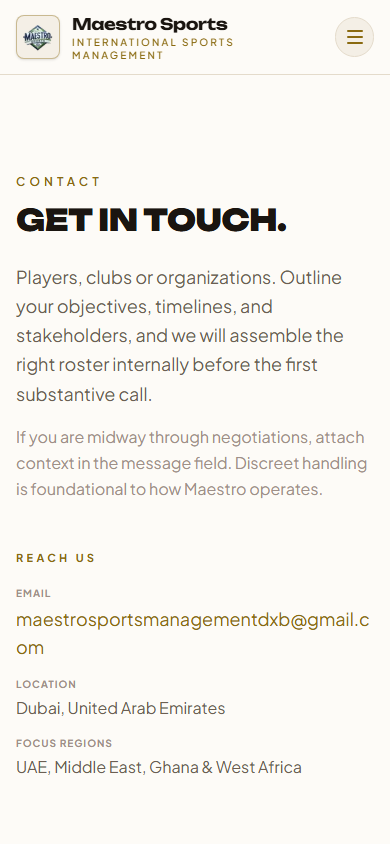
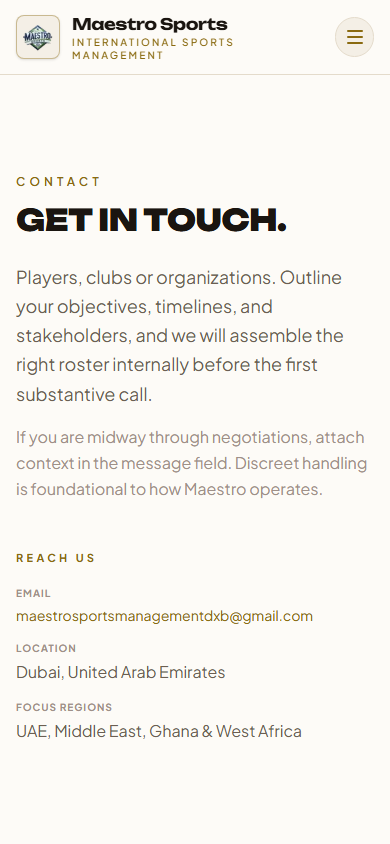
Update mobile contact screenshot and demo video link

Changed region(s): [[0.0308, 0.7085, 0.9538, 0.9242]]

diff --git a/README.md b/README.md
@@ -4,7 +4,7 @@
 
 **The website of an international football management company, connecting talent in Ghana and West Africa with opportunities in Dubai and the Middle East.**
 
-[Live site](https://maestrosportsmanagement.com) · [Demo video](https://github.com/7kbytes/maestrosports-showcase/releases/download/v1.0/maestro-demo.webm) · [How it works](#how-it-works) · [Contact](#contact)
+[Live site](https://maestrosportsmanagement.com) · [Demo video](https://github.com/7kbytes/maestrosports-showcase/releases/download/v1.0/maestro-demo.mp4) · [How it works](#how-it-works) · [Contact](#contact)
 
 ![Maestro Sports walkthrough](assets/walkthrough.gif)
 
